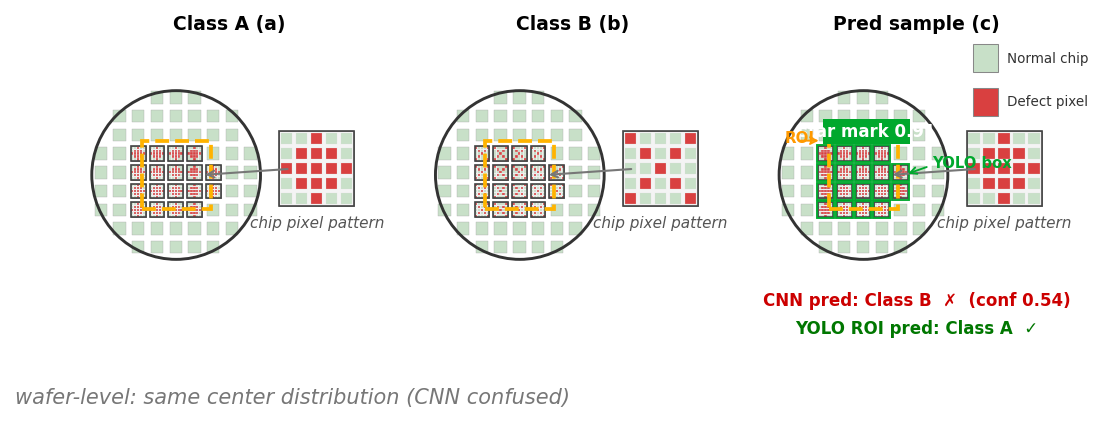
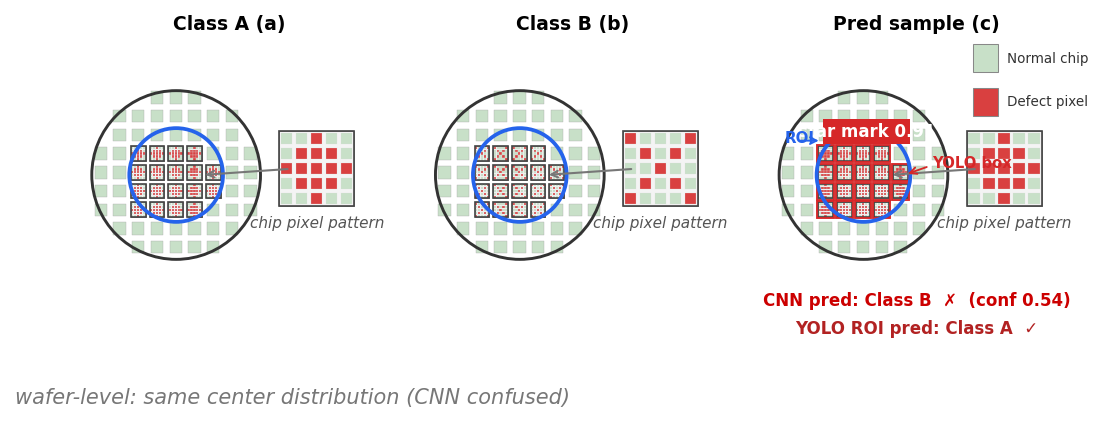
docs: update codex paper rev155

diff --git a/generate_papers.py b/generate_papers.py
@@ -869,11 +869,11 @@ def make_yolo_roi_figure(save_path: str):
                     if highlight:
                         ax.add_patch(Rectangle(
                             (x0 - 0.35, y0 - 0.35), size + 0.7, size + 0.7,
-                            fill=False, ec="#00A82D", lw=0.9))
+                            fill=False, ec="#D62728", lw=0.9))
                 else:
                     _draw_normal_chip(ax, xi + 0.5, yi + 0.5, chip - 1.3)
         ax.add_patch(Circle((cx, cy), R, fill=False, ec="#333333", lw=1.4))
-        ax.add_patch(Rectangle((22, 45), 22, 22, fill=False, ec="#FFB300", lw=1.8, ls="--"))
+        ax.add_patch(Circle((33, 56), 15, fill=False, ec="#2563EB", lw=1.8))
 
     def _draw_panel(ax, pattern, title, pred_lines=None, highlight=False):
         ax.set_xlim(0, 100)
@@ -902,20 +902,20 @@ def make_yolo_roi_figure(save_path: str):
         axes[2], "star", "Pred sample (c)",
         pred_lines=[
             (16, "CNN pred: Class B  \u2717  (conf 0.54)", "#CC0000"),
-            (7,  "YOLO ROI pred: Class A  \u2713", "#007700"),
+            (7,  "YOLO ROI pred: Class A  \u2713", "#B22222"),
         ],
         highlight=True,
     )
 
-    axes[2].add_patch(Rectangle((20, 66), 28, 8, facecolor="#00A82D", edgecolor="none"))
+    axes[2].add_patch(Rectangle((20, 66), 28, 8, facecolor="#D62728", edgecolor="none"))
     axes[2].text(34, 70, "star mark 0.91", ha="center", va="center",
                  fontsize=8, fontweight="bold", color="white")
-    axes[2].text(17.5, 68, "ROI", ha="right", va="center", fontsize=7.2, color="#FF9900", fontweight="bold")
+    axes[2].text(17.5, 68, "ROI", ha="right", va="center", fontsize=7.2, color="#2563EB", fontweight="bold")
     axes[2].annotate("", xy=(20, 67), xytext=(11.5, 67),
-                     arrowprops=dict(arrowstyle="->", lw=0.9, color="#FF9900"))
-    axes[2].text(55, 60, "YOLO box", ha="left", va="center", fontsize=7.1, color="#00A82D", fontweight="bold")
+                     arrowprops=dict(arrowstyle="->", lw=0.9, color="#2563EB"))
+    axes[2].text(55, 60, "YOLO box", ha="left", va="center", fontsize=7.1, color="#D62728", fontweight="bold")
     axes[2].annotate("", xy=(46, 56), xytext=(54.5, 59),
-                     arrowprops=dict(arrowstyle="->", lw=0.9, color="#00A82D"))
+                     arrowprops=dict(arrowstyle="->", lw=0.9, color="#D62728"))
 
     # 범례 (우상단 inset)
     ax3 = axes[2]
@@ -1706,7 +1706,7 @@ def build_codex_revised() -> Document:
     add_figure(
         doc,
         _fig_known_path,
-        "Fig. 3. Representative patterns of Class A(a) and Class B(b), and a true Class A sample(c) misclassified as Class B by the first-stage CNN but corrected to Class A by the second-stage ROI-YOLO. The dashed yellow box indicates the ROI, and the green boxes denote YOLO detections of chip-level defect patterns within the ROI.",
+        "Fig. 3. Representative patterns of Class A(a) and Class B(b), and a true Class A sample(c) misclassified as Class B by the first-stage CNN but corrected to Class A by the second-stage ROI-YOLO. The blue circle indicates the ROI, and the red boxes denote YOLO detections of chip-level defect patterns within the ROI.",
         width_cm=8.2,
     )
     add_table(doc, TABLE_PERF_CLAUDE)

diff --git a/archive/paper_codex_2page_rev154.md b/archive/paper_codex_2page_rev154.md
@@ -1,0 +1,126 @@
+# Failbit Map Known & Unknown 불량 분석 아키텍처
+
+**Hybrid Failbit Map Analysis Architecture for Known Classification and Unknown Discovery**
+
+홍길동¹, 김철수¹
+
+¹ 반도체연구소, Samsung Electronics, 화성시, 대한민국
+
+(Abstract)
+
+Failbit Map은 반도체 EDS Test에서 생성되는 웨이퍼당 약 1,000만 pixel 수준의 초고해상도 데이터로, 불량 패턴 분석의 핵심 자료이다. 그러나 실제 현업에서는 대량의 Failbit Map 조회가 불가능하고, 일부 Map 분석도 엔지니어의 수작업에 의존하고 있다. 본 논문은 이를 해결하기 위해 대량 Failbit Map 데이터 파이프라인을 구축하고, Known 불량은 2-stage supervised classification으로, Unknown 불량은 self-supervised로 검출하는 아키텍처를 구현하였다. 데이터는 Cython 적용으로 변환 속도를 약 100배 향상시켰고, 이미지는 Palette PNG 적용으로 용량을 약 75% 절감하였다. Known 불량 분류는 ConvNeXtV2 기반 1차 분류와 저신뢰 샘플에 대한 ROI(Region of Interest) 기반 YOLO 2차 분류를 결합한 구조로 설계하였으며, F1-score 0.95를 달성하였다. Unknown 불량 검출은 레이블 없이 SimCLR 계열 모델에 wafer의 zone 기반 불량 해석 특성을 반영하기 위해 grid structured local sampling을 적용하여 대조학습을 수행하였다. 양산 5일치 Failbit Map 10,000장 학습 후 1일치 2,000장 적용 시 13개 불량 그룹이 검출되었고, 이 중 7개가 현업 엔지니어 검증에서 실제 불량 그룹으로 판정되어 현업 적용 가능성을 입증하였다.
+
+Keywords: Failbit Map, Wafer Failure Analysis, ConvNeXtV2, YOLO, Contrastive Learning, HDBSCAN
+
+## 1. INTRODUCTION
+
+Failbit Map은 EDS Test에서 Memory Cell Block 단위의 불량 정도를 Grade 0부터 7까지로 표현한 데이터이다. Wafer 1장에는 약 1,000만 개의 block이 존재하므로, 이는 불량의 위치와 형태를 반영하는 초고해상도 데이터이다. 현업의 Measure 기반 분석만으로는 이러한 정보를 확인할 수 없어 Failbit Map의 전수 분석이 필요하다.
+
+실제 현업 적용에는 두 가지 제약이 있다. 첫째, 기존 시스템은 설비 Log를 대량 Failbit Map으로 변환하고 저장·조회하는 처리 성능이 부족하였다. 설비 Log는 Wafer당 10~50MB 수준이며 특정 제품에서는 하루 약 2,000장의 Wafer가 발생하지만, 기존 환경에서는 속도와 메모리 제약으로 대량 처리가 어려웠고 실제 확인 가능 수량도 한 번에 48매 수준으로 제한되었다. 둘째, 생성된 Map에 대한 불량 여부 및 유형 판정이 엔지니어의 수동 판독에 의존하여 전수 분석이 어려웠다. 본 논문은 이러한 한계를 해결하기 위해, 대량 Raw Data를 지속적으로 Failbit Map으로 생성 및 운영하는 데이터 파이프라인과, Known 불량을 2-stage supervised classification으로 분석하고 Unknown 불량을 self-supervised 기반으로 검출하는 통합 분석 아키텍처를 제안한다. 주요 기여는 다음과 같다.
+
+첫째, 대량 설비 Log의 실시간 적재와 1시간 주기 Failbit Map 생성 체계를 구현하여, 대량 Map의 지속적 생성과 운영 활용이 가능한 데이터 처리 기반을 구축하였다. 둘째, Known 불량 분류는 ConvNeXt V2로 Wafer 내 불량 Chip들의 종류와 분포 패턴을 1차 분류하고, 유사 분포로 인해 혼동되는 샘플은 ROI 기반 YOLO로 개별 Chip object detection을 수행하여 2차 분류함으로써 성능을 향상시켰다. 셋째, 기존 분류 체계에 등록되지 않은 상태에서 새롭게 발생하는 Unknown 불량을 검출하기 위해 SimCLR 계열 contrastive learning 기반 분석 구조를 구현하였다. 또한 grid structured local sampling을 적용하여 발생 위치까지 반영함으로써, Unknown 불량을 보다 정밀하게 검출할 수 있도록 하였다.
+
+## 2. PROPOSED METHOD
+
+### 2.1 DATA PIPELINE
+
+주요 병목은 wafer당 약 1,000만 개의 암호화된 test 결과를 grade 값으로 변환하는 속도와, 4K를 초과하는 초고해상도 이미지의 저장 용량 부담이었다. 이에 Cython 최적화로 변환 속도를 약 100배 향상시켰으며(Fig. 1), 32-palette-indexed PNG를 적용하여 이미지 용량을 약 75% 절감하였다(Fig. 2).
+
+<table>
+<tr><td>
+<div align="center"><b>Hex-to-grade conversion</b></div>
+
+```text
+    Raw:
+        090B0C0D0E0F090A0B0C
+
+    Decoding:
+        "0C" -> "C" -> 12 (hex to decimal) -> 3
+
+
+    Python:
+        interpreter-based loop execution
+
+    Cython:
+        compiled integer loop execution
+
+    Grade:
+        0 2 3 4 5 6 0 1 2 3
+```
+</td></tr>
+</table>
+
+**Fig. 1.** Hex-to-grade conversion accelerated by Cython
+
+<table>
+<tr><td>
+<div align="center"><b>RGB PNG vs Palette-indexed PNG</b></div>
+
+```text
+    RGB PNG:
+        [(123,54,24), (123,54,24), ..., (123,54,24)],
+        [(123,54,24), (123,54,24), ..., (123,54,24)]
+
+    Palette-indexed PNG:
+        P[3] = (123,54,24)
+        [(3), (3), ..., (3)],
+        [(3), (3), ..., (3)]
+
+    RGB_to_Palette:
+        (123,54,24) -> (3)
+```
+</td></tr>
+</table>
+
+**Fig. 2.** Palette-indexed PNG for failbit map compression.
+
+### 2.2 Known 불량 분류
+
+Known 불량 분석은 16개 등록 클래스를 대상으로 하였으며, 1,500개의 Failbit Map을 사용하여 ConvNeXtV2[1] 기반 1단계 wafer-level 분류기와 저신뢰 샘플 대상 2단계 ROI(Region of Interest) 기반 YOLO를 결합한 2-stage 구조를 설계하였다.
+ConvNeXtV2 기반 wafer-level 분류는 전반적으로 높은 정확도와 처리 속도를 보였으나, wafer 내 불량 chip의 분포가 유사한 클래스에서는 분류 성능이 저하되었다. 이를 보완하기 위해 1차 분류의 저신뢰 샘플에 대해 ROI 기반 YOLO를 적용하여 ROI 영역 내 불량 chip의 형태와 출현 패턴을 추가 판별하는 2-stage 구조를 설계하였다(Fig. 3).
+
+![Fig. 3. Two-stage known-defect classification with ROI-YOLO.](_fig_yolo_roi.png)
+
+**Fig. 3.** Representative patterns of Class A(a) and Class B(b), and a true Class A sample(c) misclassified as Class B by the first-stage CNN but corrected to Class A by the second-stage ROI-YOLO. The dashed yellow box indicates the ROI, and the green boxes denote YOLO detections of chip-level defect patterns within the ROI.
+
+
+**Table 1.** Backbone comparison and staged improvements for known-fail classification (16-class, test Weighted F1)
+
+| Configuration | Pre Train | Test F1 | Note |
+|---|---|---:|---|
+| ViT | IN-21k | 0.81 | fine-tune |
+| Swin | IN-1k | 0.84 | fine-tune |
+| EffNetV2 | IN-1k | 0.85 | fine-tune |
+| MaxViT | IN-21k | 0.87 | fine-tune |
+| ConvNeXtV2 (Ref) | IN-22k | 0.87 | selected |
+| Ref + Optuna | IN-22k | 0.92 | HPO |
+| Ref + Optuna + ROI | IN-22k | 0.95 | 2-stage |
+
+MaxViT[2]와 ConvNeXtV2 (Ref)는 동일한 test Weighted F1 0.87을 보였으나, ConvNeXtV2는 파라미터 수 약 26% 감소(119.5M → 88.6M)와 FLOPs 약 39% 감소(74.2G → 45.1G)로 더 효율적이라 최종 backbone으로 선정하였다. 이는 하루 약 2만 장 이상의 Wafer Failbit Map이 발생하는 운영 환경을 고려한 선택이다. 이후 Optuna를 통해 lr, weight decay, focal loss, class weight 등을 최적화하여 test Weighted F1을 0.92까지 향상시켰고, ROI-YOLO 보정으로 최종 0.95를 달성하였다.
+
+### 2.3 Unknown 불량 검출
+
+Unknown 불량 검출은 유사한 형태를 그룹화하여 불량 후보 그룹을 찾는 문제로 정의하였다. 5일치 운영 데이터 10,000장으로 SimCLR 계열 모델에 wafer의 zone 기반 불량 해석 특성을 반영하기 위해 grid structured local sampling을 적용하여 대조학습을 수행하였고, 별도 1일치 2,000장에 HDBSCAN[4]을 적용하여 유사 패턴을 그룹화하였다.
+
+![Fig. 4. Unknown-defect grouping on production images.](_fig_cluster.png)
+
+**Fig. 4.** Unknown-fail grouping on production images.
+
+
+Unknown 불량 검출에서는 운영 이미지 2,000장에 대한 grouping 결과 13개 후보 그룹이 검출되었으며, 현업 분석 엔지니어 검증 결과 이 중 7개가 실제 불량 그룹으로 판정되었다. 나머지 6개 그룹은 lot성 warning 수준의 noise이거나 실제 chip 불량으로 이어지지 않는 패턴으로 해석되었다.
+
+## 3. CONCLUSION
+
+본 연구는 Failbit Map 전수 생성과 자동 불량 분석을 위한 통합 아키텍처를 구현하였다. Cython 최적화와 palette-indexed PNG로 대량 Map을 생성하였고, Known 2-stage 분류와 Unknown self-supervised 검출을 결합하여 자동화 및 고도화하였다. 현재 분석용 Web App[5] 운영 중이다(DRAM 특정제품 적용).
+
+## REFERENCES
+
+[1] S. Woo et al., "ConvNeXt V2: Co-Designing and Scaling ConvNets With Masked Autoencoders," in Proceedings of the IEEE/CVF Conference on Computer Vision and Pattern Recognition (CVPR), pp. 16133-16142, 2023.
+
+[2] Z. Tu et al., "MaxViT: Multi-Axis Vision Transformer," in Proceedings of the European Conference on Computer Vision (ECCV), pp. 459-479, 2022.
+
+[3] T. Chen, S. Kornblith, M. Norouzi, and G. Hinton, "A Simple Framework for Contrastive Learning of Visual Representations," in Proceedings of the 37th International Conference on Machine Learning (ICML), PMLR 119, pp. 1597-1607, 2020.
+
+[4] R. J. G. B. Campello, D. Moulavi, and J. Sander, "Density-Based Clustering Based on Hierarchical Density Estimates," in Advances in Knowledge Discovery and Data Mining, PAKDD 2013, pp. 160-172, 2013.
+
+[5] FBM, https://www.failbitmap.com

diff --git a/paper_codex_2page_rev155.md b/paper_codex_2page_rev155.md
@@ -1,0 +1,126 @@
+# Failbit Map Known & Unknown 불량 분석 아키텍처
+
+**Hybrid Failbit Map Analysis Architecture for Known Classification and Unknown Discovery**
+
+홍길동¹, 김철수¹
+
+¹ 반도체연구소, Samsung Electronics, 화성시, 대한민국
+
+(Abstract)
+
+Failbit Map은 반도체 EDS Test에서 생성되는 웨이퍼당 약 1,000만 pixel 수준의 초고해상도 데이터로, 불량 패턴 분석의 핵심 자료이다. 그러나 실제 현업에서는 대량의 Failbit Map 조회가 불가능하고, 일부 Map 분석도 엔지니어의 수작업에 의존하고 있다. 본 논문은 이를 해결하기 위해 대량 Failbit Map 데이터 파이프라인을 구축하고, Known 불량은 2-stage supervised classification으로, Unknown 불량은 self-supervised로 검출하는 아키텍처를 구현하였다. 데이터는 Cython 적용으로 변환 속도를 약 100배 향상시켰고, 이미지는 Palette PNG 적용으로 용량을 약 75% 절감하였다. Known 불량 분류는 ConvNeXtV2 기반 1차 분류와 저신뢰 샘플에 대한 ROI(Region of Interest) 기반 YOLO 2차 분류를 결합한 구조로 설계하였으며, F1-score 0.95를 달성하였다. Unknown 불량 검출은 레이블 없이 SimCLR 계열 모델에 wafer의 zone 기반 불량 해석 특성을 반영하기 위해 grid structured local sampling을 적용하여 대조학습을 수행하였다. 양산 5일치 Failbit Map 10,000장 학습 후 1일치 2,000장 적용 시 13개 불량 그룹이 검출되었고, 이 중 7개가 현업 엔지니어 검증에서 실제 불량 그룹으로 판정되어 현업 적용 가능성을 입증하였다.
+
+Keywords: Failbit Map, Wafer Failure Analysis, ConvNeXtV2, YOLO, Contrastive Learning, HDBSCAN
+
+## 1. INTRODUCTION
+
+Failbit Map은 EDS Test에서 Memory Cell Block 단위의 불량 정도를 Grade 0부터 7까지로 표현한 데이터이다. Wafer 1장에는 약 1,000만 개의 block이 존재하므로, 이는 불량의 위치와 형태를 반영하는 초고해상도 데이터이다. 현업의 Measure 기반 분석만으로는 이러한 정보를 확인할 수 없어 Failbit Map의 전수 분석이 필요하다.
+
+실제 현업 적용에는 두 가지 제약이 있다. 첫째, 기존 시스템은 설비 Log를 대량 Failbit Map으로 변환하고 저장·조회하는 처리 성능이 부족하였다. 설비 Log는 Wafer당 10~50MB 수준이며 특정 제품에서는 하루 약 2,000장의 Wafer가 발생하지만, 기존 환경에서는 속도와 메모리 제약으로 대량 처리가 어려웠고 실제 확인 가능 수량도 한 번에 48매 수준으로 제한되었다. 둘째, 생성된 Map에 대한 불량 여부 및 유형 판정이 엔지니어의 수동 판독에 의존하여 전수 분석이 어려웠다. 본 논문은 이러한 한계를 해결하기 위해, 대량 Raw Data를 지속적으로 Failbit Map으로 생성 및 운영하는 데이터 파이프라인과, Known 불량을 2-stage supervised classification으로 분석하고 Unknown 불량을 self-supervised 기반으로 검출하는 통합 분석 아키텍처를 제안한다. 주요 기여는 다음과 같다.
+
+첫째, 대량 설비 Log의 실시간 적재와 1시간 주기 Failbit Map 생성 체계를 구현하여, 대량 Map의 지속적 생성과 운영 활용이 가능한 데이터 처리 기반을 구축하였다. 둘째, Known 불량 분류는 ConvNeXt V2로 Wafer 내 불량 Chip들의 종류와 분포 패턴을 1차 분류하고, 유사 분포로 인해 혼동되는 샘플은 ROI 기반 YOLO로 개별 Chip object detection을 수행하여 2차 분류함으로써 성능을 향상시켰다. 셋째, 기존 분류 체계에 등록되지 않은 상태에서 새롭게 발생하는 Unknown 불량을 검출하기 위해 SimCLR 계열 contrastive learning 기반 분석 구조를 구현하였다. 또한 grid structured local sampling을 적용하여 발생 위치까지 반영함으로써, Unknown 불량을 보다 정밀하게 검출할 수 있도록 하였다.
+
+## 2. PROPOSED METHOD
+
+### 2.1 DATA PIPELINE
+
+주요 병목은 wafer당 약 1,000만 개의 암호화된 test 결과를 grade 값으로 변환하는 속도와, 4K를 초과하는 초고해상도 이미지의 저장 용량 부담이었다. 이에 Cython 최적화로 변환 속도를 약 100배 향상시켰으며(Fig. 1), 32-palette-indexed PNG를 적용하여 이미지 용량을 약 75% 절감하였다(Fig. 2).
+
+<table>
+<tr><td>
+<div align="center"><b>Hex-to-grade conversion</b></div>
+
+```text
+    Raw:
+        090B0C0D0E0F090A0B0C
+
+    Decoding:
+        "0C" -> "C" -> 12 (hex to decimal) -> 3
+
+
+    Python:
+        interpreter-based loop execution
+
+    Cython:
+        compiled integer loop execution
+
+    Grade:
+        0 2 3 4 5 6 0 1 2 3
+```
+</td></tr>
+</table>
+
+**Fig. 1.** Hex-to-grade conversion accelerated by Cython
+
+<table>
+<tr><td>
+<div align="center"><b>RGB PNG vs Palette-indexed PNG</b></div>
+
+```text
+    RGB PNG:
+        [(123,54,24), (123,54,24), ..., (123,54,24)],
+        [(123,54,24), (123,54,24), ..., (123,54,24)]
+
+    Palette-indexed PNG:
+        P[3] = (123,54,24)
+        [(3), (3), ..., (3)],
+        [(3), (3), ..., (3)]
+
+    RGB_to_Palette:
+        (123,54,24) -> (3)
+```
+</td></tr>
+</table>
+
+**Fig. 2.** Palette-indexed PNG for failbit map compression.
+
+### 2.2 Known 불량 분류
+
+Known 불량 분석은 16개 등록 클래스를 대상으로 하였으며, 1,500개의 Failbit Map을 사용하여 ConvNeXtV2[1] 기반 1단계 wafer-level 분류기와 저신뢰 샘플 대상 2단계 ROI(Region of Interest) 기반 YOLO를 결합한 2-stage 구조를 설계하였다.
+ConvNeXtV2 기반 wafer-level 분류는 전반적으로 높은 정확도와 처리 속도를 보였으나, wafer 내 불량 chip의 분포가 유사한 클래스에서는 분류 성능이 저하되었다. 이를 보완하기 위해 1차 분류의 저신뢰 샘플에 대해 ROI 기반 YOLO를 적용하여 ROI 영역 내 불량 chip의 형태와 출현 패턴을 추가 판별하는 2-stage 구조를 설계하였다(Fig. 3).
+
+![Fig. 3. Two-stage known-defect classification with ROI-YOLO.](_fig_yolo_roi.png)
+
+**Fig. 3.** Representative patterns of Class A(a) and Class B(b), and a true Class A sample(c) misclassified as Class B by the first-stage CNN but corrected to Class A by the second-stage ROI-YOLO. The blue circle indicates the ROI, and the red boxes denote YOLO detections of chip-level defect patterns within the ROI.
+
+
+**Table 1.** Backbone comparison and staged improvements for known-fail classification (16-class, test Weighted F1)
+
+| Configuration | Pre Train | Test F1 | Note |
+|---|---|---:|---|
+| ViT | IN-21k | 0.81 | fine-tune |
+| Swin | IN-1k | 0.84 | fine-tune |
+| EffNetV2 | IN-1k | 0.85 | fine-tune |
+| MaxViT | IN-21k | 0.87 | fine-tune |
+| ConvNeXtV2 (Ref) | IN-22k | 0.87 | selected |
+| Ref + Optuna | IN-22k | 0.92 | HPO |
+| Ref + Optuna + ROI | IN-22k | 0.95 | 2-stage |
+
+MaxViT[2]와 ConvNeXtV2 (Ref)는 동일한 test Weighted F1 0.87을 보였으나, ConvNeXtV2는 파라미터 수 약 26% 감소(119.5M → 88.6M)와 FLOPs 약 39% 감소(74.2G → 45.1G)로 더 효율적이라 최종 backbone으로 선정하였다. 이는 하루 약 2만 장 이상의 Wafer Failbit Map이 발생하는 운영 환경을 고려한 선택이다. 이후 Optuna를 통해 lr, weight decay, focal loss, class weight 등을 최적화하여 test Weighted F1을 0.92까지 향상시켰고, ROI-YOLO 보정으로 최종 0.95를 달성하였다.
+
+### 2.3 Unknown 불량 검출
+
+Unknown 불량 검출은 유사한 형태를 그룹화하여 불량 후보 그룹을 찾는 문제로 정의하였다. 5일치 운영 데이터 10,000장으로 SimCLR 계열 모델에 wafer의 zone 기반 불량 해석 특성을 반영하기 위해 grid structured local sampling을 적용하여 대조학습을 수행하였고, 별도 1일치 2,000장에 HDBSCAN[4]을 적용하여 유사 패턴을 그룹화하였다.
+
+![Fig. 4. Unknown-defect grouping on production images.](_fig_cluster.png)
+
+**Fig. 4.** Unknown-fail grouping on production images.
+
+
+Unknown 불량 검출에서는 운영 이미지 2,000장에 대한 grouping 결과 13개 후보 그룹이 검출되었으며, 현업 분석 엔지니어 검증 결과 이 중 7개가 실제 불량 그룹으로 판정되었다. 나머지 6개 그룹은 lot성 warning 수준의 noise이거나 실제 chip 불량으로 이어지지 않는 패턴으로 해석되었다.
+
+## 3. CONCLUSION
+
+본 연구는 Failbit Map 전수 생성과 자동 불량 분석을 위한 통합 아키텍처를 구현하였다. Cython 최적화와 palette-indexed PNG로 대량 Map을 생성하였고, Known 2-stage 분류와 Unknown self-supervised 검출을 결합하여 자동화 및 고도화하였다. 현재 분석용 Web App[5] 운영 중이다(DRAM 특정제품 적용).
+
+## REFERENCES
+
+[1] S. Woo et al., "ConvNeXt V2: Co-Designing and Scaling ConvNets With Masked Autoencoders," in Proceedings of the IEEE/CVF Conference on Computer Vision and Pattern Recognition (CVPR), pp. 16133-16142, 2023.
+
+[2] Z. Tu et al., "MaxViT: Multi-Axis Vision Transformer," in Proceedings of the European Conference on Computer Vision (ECCV), pp. 459-479, 2022.
+
+[3] T. Chen, S. Kornblith, M. Norouzi, and G. Hinton, "A Simple Framework for Contrastive Learning of Visual Representations," in Proceedings of the 37th International Conference on Machine Learning (ICML), PMLR 119, pp. 1597-1607, 2020.
+
+[4] R. J. G. B. Campello, D. Moulavi, and J. Sander, "Density-Based Clustering Based on Hierarchical Density Estimates," in Advances in Knowledge Discovery and Data Mining, PAKDD 2013, pp. 160-172, 2013.
+
+[5] FBM, https://www.failbitmap.com